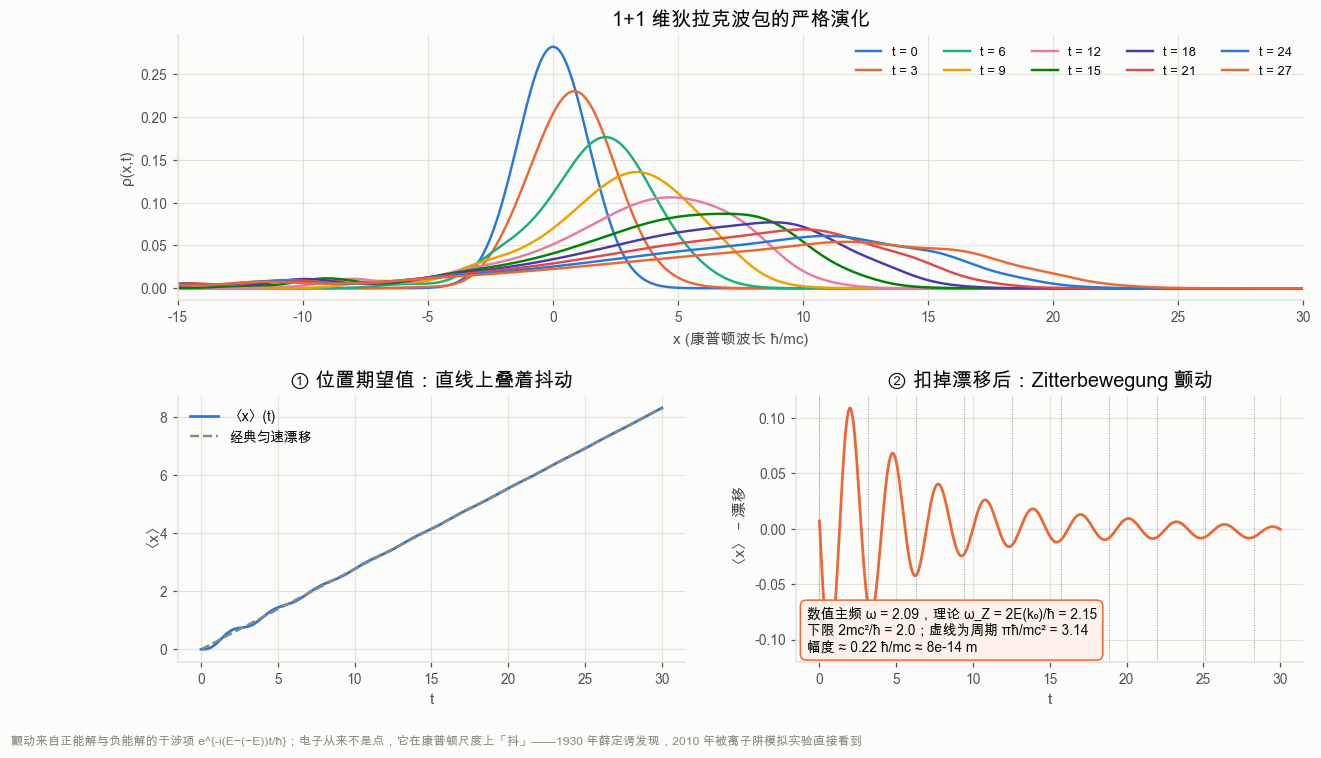
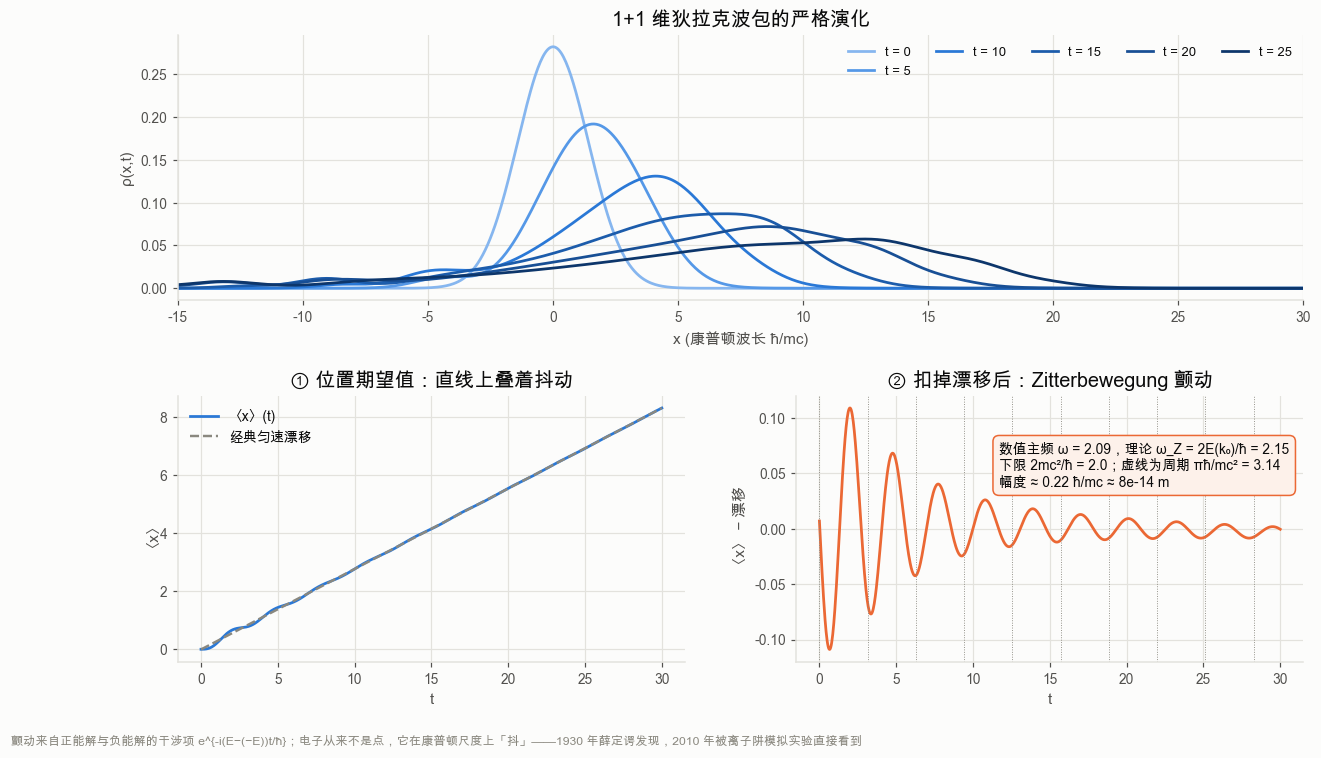
dirac update

diff --git a/qhv/s05_dirac.py b/qhv/s05_dirac.py
@@ -28,7 +28,7 @@ import numpy as np
 import torch
 import matplotlib.pyplot as plt
 
-from .style import use_style, finish, section, C, SERIES, INK, INK_2, INK_MUTED
+from .style import use_style, finish, section, C, SERIES, SEQ_BLUE, INK, INK_2, INK_MUTED
 
 DT, CT = torch.float64, torch.complex128
 I2 = torch.eye(2, dtype=CT)
@@ -145,7 +145,7 @@ def fig_zitterbewegung():
         rho = (px.abs() ** 2).sum(0)
         rho = rho / (rho.sum() * dx)
         xmean.append(float((x * rho).sum() * dx))
-        if i % 90 == 0:
+        if i % 150 == 0:
             dens.append((float(t), rho.clone()))
     xmean = np.array(xmean)
     ts_np = ts.numpy()
@@ -167,8 +167,10 @@ def fig_zitterbewegung():
     gs = fig.add_gridspec(2, 2, height_ratios=[1, 1], hspace=0.36, wspace=0.22)
 
     ax = fig.add_subplot(gs[0, :])
+    # 时间是有序量 → 用单色顺序色阶（浅→深），不是分类色
+    ramp = [SEQ_BLUE[i] for i in (3, 5, 7, 9, 10, 12)]
     for i, (t, rho) in enumerate(dens):
-        ax.plot(x, rho, color=SERIES[i % 8], lw=1.6, label=f"t = {t:.0f}")
+        ax.plot(x, rho, color=ramp[i % len(ramp)], lw=1.8, label=f"t = {t:.0f}")
     ax.set_xlim(-15, 30); ax.set_xlabel("x (康普顿波长 ħ/mc)"); ax.set_ylabel("ρ(x,t)")
     ax.set_title("1+1 维狄拉克波包的严格演化")
     ax.legend(ncol=5, loc="upper right", fontsize=8.5)
@@ -187,7 +189,7 @@ def fig_zitterbewegung():
         ax.axvline(j * per, color=INK_MUTED, lw=0.6, ls=":")
     ax.set_xlabel("t"); ax.set_ylabel("〈x〉 − 漂移")
     ax.set_title("② 扣掉漂移后：Zitterbewegung 颤动")
-    ax.text(0.02, 0.04,
+    ax.text(0.40, 0.66,
             f"数值主频 ω = {w_peak:.2f}，理论 ω_Z = 2E(k₀)/ħ = {w_theory:.2f}\n"
             f"下限 2mc²/ħ = {2*m*c**2:.1f}；虚线为周期 πħ/mc² = {per:.2f}\n"
             f"幅度 ≈ {amp:.2f} ħ/mc ≈ {amp*3.86e-13:.0e} m",
